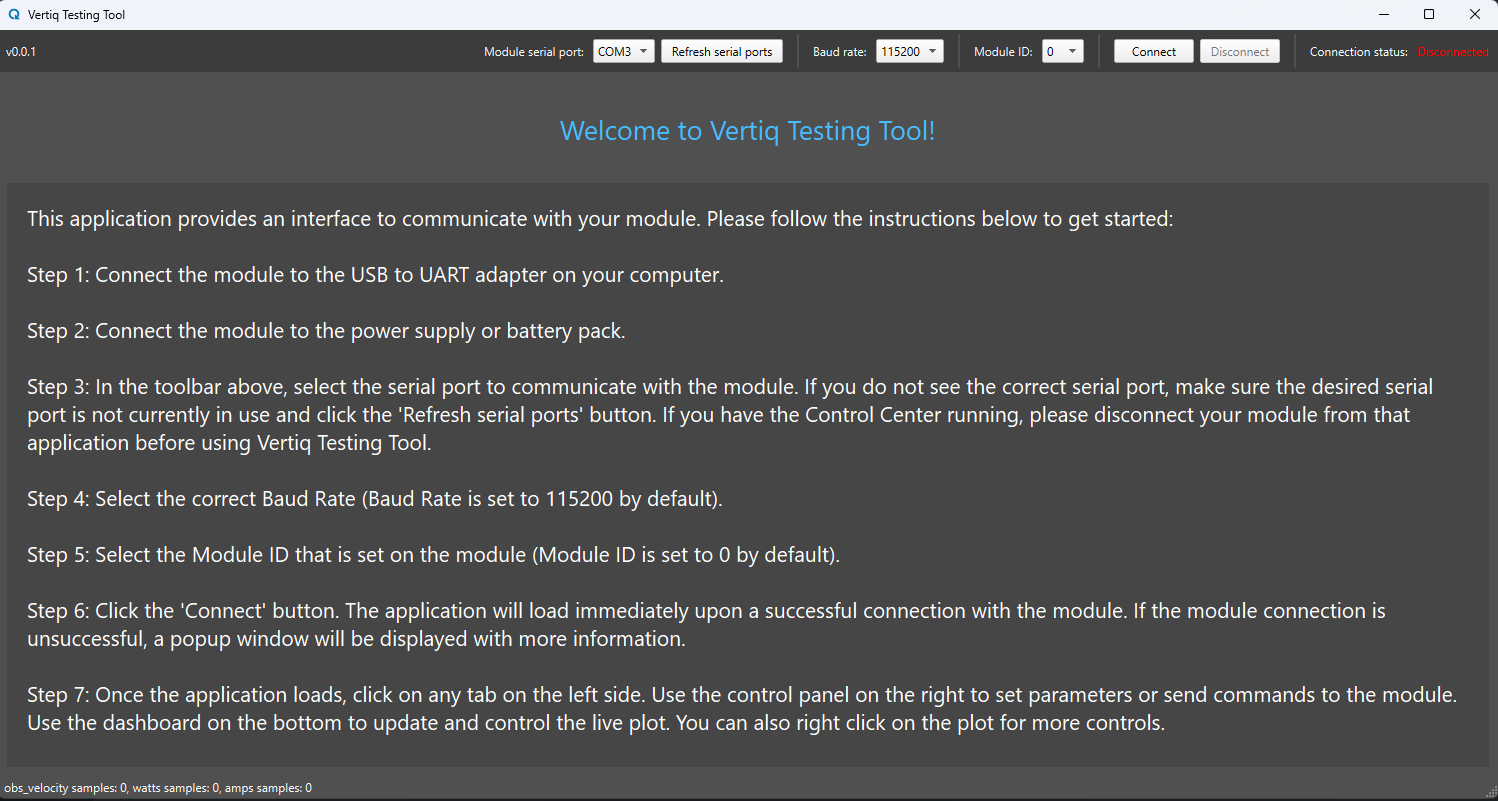
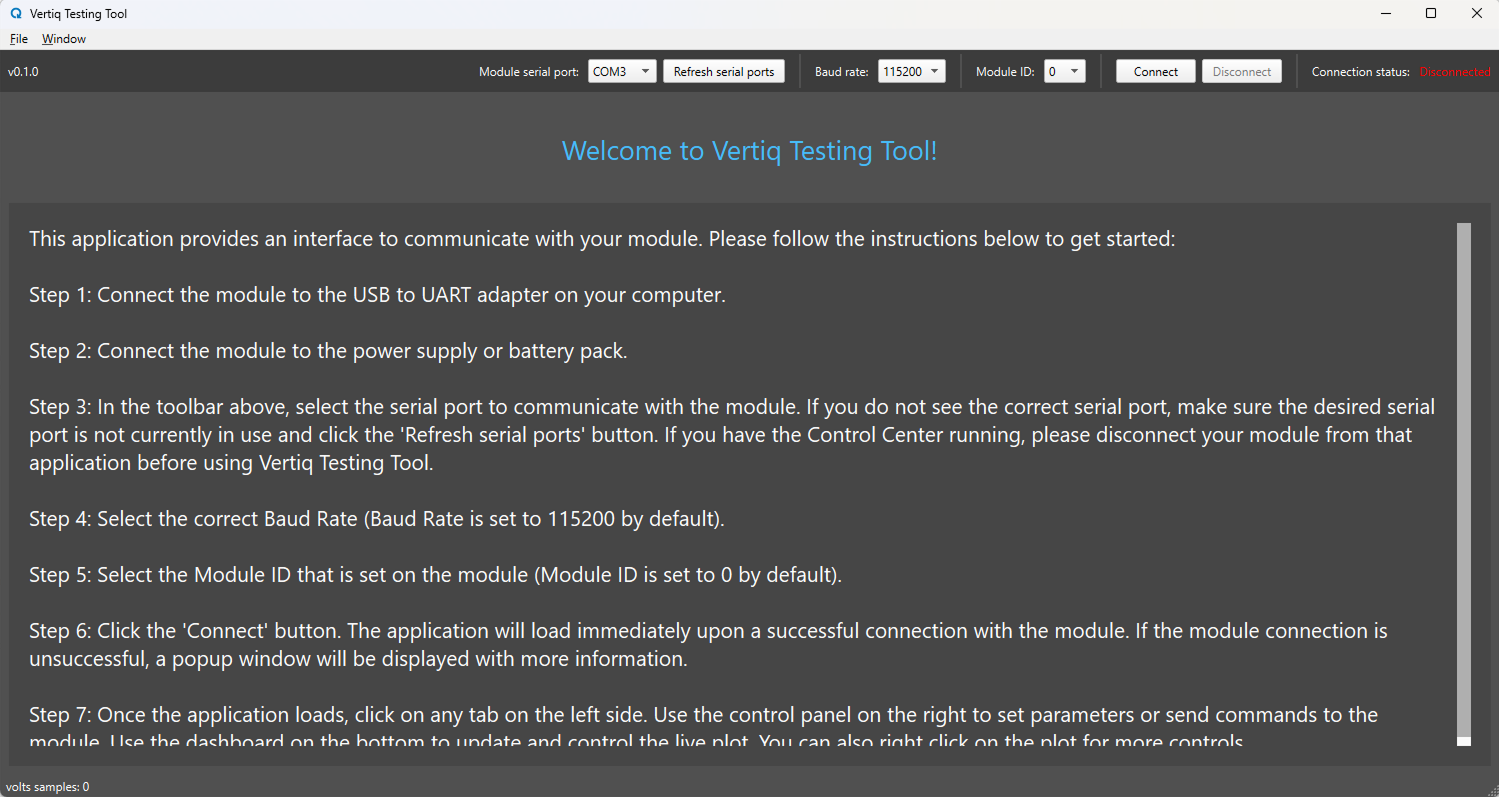
updated VTT docs with new screenshots and feature descriptions

diff --git a/docs/vertiq_testing_tool/vertiq_testing_tool_start_guide.rst b/docs/vertiq_testing_tool/vertiq_testing_tool_start_guide.rst
@@ -18,7 +18,7 @@ It provides a streamlined interface to control your module using ESC, Voltage, V
 ********
 Download
 ********
-Currently, Vertiq Testing Tool is only available on Windows.
+Vertiq Testing Tool is available on Windows and Linux.
 You can download Vertiq Testing Tool on our `Support Page <https://www.vertiq.co/support>`_.
 
 
@@ -31,7 +31,9 @@ Please follow the 'Connection with a Computer' and 'Wiring' sections of the :ref
 ********
 Overview
 ********
-Once downloaded, extract and run the Vertiq Testing Tool executable. When running this application for the first time, 
+Once downloaded on Linux, extract and run the Vertiq Testing Tool executable. 
+
+Once download on Windows, follow the instructions in the installer. When running this application for the first time, 
 you may encounter a Windows Defender SmartScreen warning.
 
 If the popup below appears, click on 'More info'.
@@ -78,6 +80,9 @@ You can also use the slider to adjust the ESC input value, which mimics adjustin
 
 .. image:: ../_static/vertiq_testing_tool_pictures/esc_input_command_widget.png
 
+.. note::
+    Continuous command will be automatically disabled when your module is disconnected for safety purposes.
+
 
 ================================
 Live Plotting and Active Metrics
@@ -111,11 +116,25 @@ Now, click 'Update Plot'.
 Notice that the *drive_volts* metric is added to the 'Active metrics' widget. By default, *obs_velocity*, *watts*, and *amps* are preloaded in the 'Active metrics' widget.
 Selecting a metric activates it, and updates the live plot with the now active metric. Only one metric can be active at a time, but there is no limit to the number of metrics that can be added to the 'Active metrics' widget.
 
-.. image:: ../_static/vertiq_testing_tool_pictures/drive_volts_metric_plotting_example.png
+.. image:: ../_static/vertiq_testing_tool_pictures/active_metrics_widget_example.png
 
-To remove a metric from the 'Active metrics' widget, simply right click on it and select 'Remove metric'.
+To remove a metric from the 'Active metrics' widget, simply right click on it and select 'Remove'.
 
 .. image:: ../_static/vertiq_testing_tool_pictures/remove_metric_example.png
+
+
+============
+Plot Windows
+============
+In versions \>=v0.1.0, there is a new feature that allows you to create multiple plot windows. To use this feature, navigate to Windows \> New plot window in the menu bar: 
+
+.. image:: ../_static/vertiq_testing_tool_pictures/new_plot_window.png
+
+You can create multiple plot windows to plot different metrics:
+
+.. image:: ../_static/vertiq_testing_tool_pictures/multiple_plot_windows.png
+
+The new plot windows are highlighted above in the blue and green boxes.
 
 
 ===============================
@@ -147,3 +166,26 @@ In this example, 'Ramp to target' was disabled when the module was commanded to 
     Thank you for using our application! Please note that it is currently in active development, and you may encounter some bugs or unexpected behavior. 
     Your experience and feedback are extremely valuable to us as we continue to improve the application. 
     If you notice any issues or have any questions reach out to us at support@vertiq.co. Suggestions and feature requests are welcomed!
+
+=================
+Custom API Widget
+=================
+
+In versions \>=v0.1.0, there is a new widget in all tabs called the API widget:
+
+.. image:: ../_static/vertiq_testing_tool_pictures/api_widget_1.png
+
+This widget allows you to choose any client and client entry that is supported on your module, and perform GET/SET/SAVE commands.
+Here is an example of getting the input amperage to your module using the 'amps' entry from the 'power_monitor' client:
+
+.. image:: ../_static/vertiq_testing_tool_pictures/api_widget_power_monitor_amps.png
+
+For more information about clients and client entries, please refer to the :ref:`Client Table Reference <iquart_client_reference_tables>`.
+
+You can also use the 'Add API widget' to add additional API widgets in the control panel:
+
+.. image:: ../_static/vertiq_testing_tool_pictures/multiple_api_widgets.png
+
+
+
+
